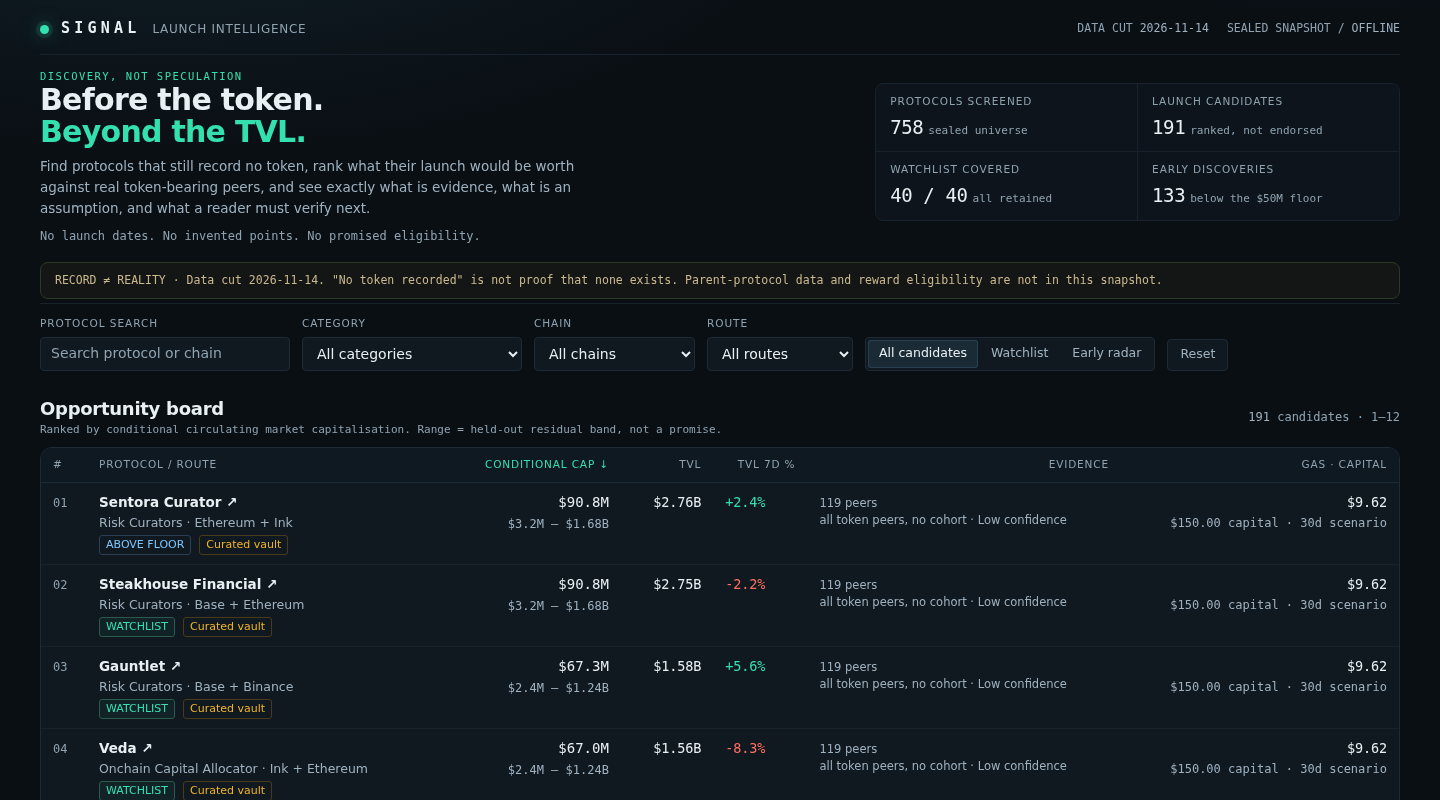
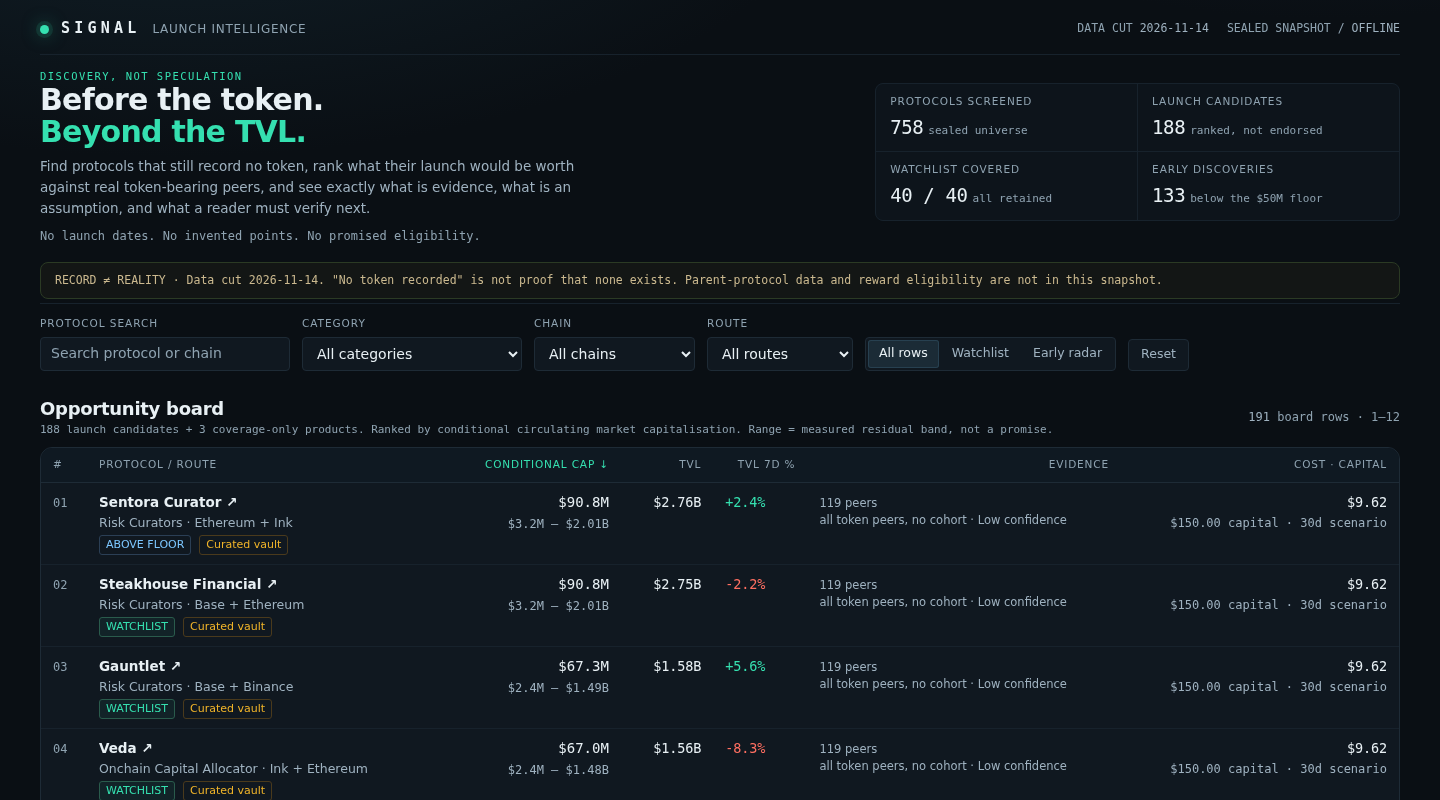
Measure the band from production residuals and keep coverage products out of launch counts

diff --git a/dashboard/app.js b/dashboard/app.js
@@ -58,9 +58,9 @@
         '<p class="lede-note">No launch dates. No invented points. No promised eligibility.</p>' }),
       el('dl', { class: 'stats', html:
         '<div class="stat"><dt>Protocols screened</dt><dd>' + D.universe + '<small>sealed universe</small></dd></div>' +
-        '<div class="stat"><dt>Launch candidates</dt><dd>' + D.rows.length + '<small>ranked, not endorsed</small></dd></div>' +
+        '<div class="stat"><dt>Launch candidates</dt><dd>' + D.launch_size + '<small>ranked, not endorsed</small></dd></div>' +
         '<div class="stat"><dt>Watchlist covered</dt><dd>' + D.watchlist_size + ' / ' + D.watchlist_size + '<small>all retained</small></dd></div>' +
-        '<div class="stat"><dt>Early discoveries</dt><dd>' + D.rows.filter(function (r) { return !r.watchlist && r.tvl_usd < D.floor_usd; }).length + '<small>below the $' + Math.round(D.floor_usd / 1e6) + 'M floor</small></dd></div>' }),
+        '<div class="stat"><dt>Early discoveries</dt><dd>' + D.early_size + '<small>below the $' + Math.round(D.floor_usd / 1e6) + 'M floor</small></dd></div>' }),
     ]);
   }
 
@@ -82,7 +82,7 @@
     });
     categories.sort(); chains.sort();
     var seg = el('div', { class: 'seg', role: 'group', 'aria-label': 'Candidate scope' });
-    [['all', 'All candidates'], ['watchlist', 'Watchlist'], ['early', 'Early radar']].forEach(function (v) {
+    [['all', 'All rows'], ['watchlist', 'Watchlist'], ['early', 'Early radar']].forEach(function (v) {
       seg.append(el('button', { type: 'button', text: v[1], 'data-view': v[0], 'aria-pressed': String(state.view === v[0]), onclick: function () { state.view = v[0]; state.page = 0; syncHash(); renderResults(); } }));
     });
     return el('section', { class: 'controls' }, [
@@ -103,7 +103,7 @@
       if (state.chain !== 'all' && r.chains.indexOf(state.chain) < 0) return false;
       if (state.route !== 'all' && r.route !== state.route) return false;
       if (state.view === 'watchlist' && !r.watchlist) return false;
-      if (state.view === 'early' && r.watchlist) return false;
+      if (state.view === 'early' && (r.watchlist || r.tvl_usd >= D.floor_usd)) return false;
       return true;
     }).sort(function (a, b) {
       var x = a[state.sort] === null || a[state.sort] === undefined ? -Infinity : a[state.sort];
@@ -143,11 +143,11 @@
     });
     results.replaceChildren();
     results.append(el('div', { class: 'resulthead' }, [
-      el('div', { html: '<h2>' + (state.view === 'early' ? 'Early radar' : state.view === 'watchlist' ? 'Watchlist' : 'Opportunity board') + '</h2><p class="hint">Ranked by conditional circulating market capitalisation. Range = held-out residual band, not a promise.</p>' }),
-      el('span', { class: 'count', 'aria-live': 'polite', html: '<b>' + rows.length + '</b> candidates · ' + (rows.length ? state.page * PAGE + 1 : 0) + '–' + Math.min((state.page + 1) * PAGE, rows.length) }),
+      el('div', { html: '<h2>' + (state.view === 'early' ? 'Early radar' : state.view === 'watchlist' ? 'Watchlist' : 'Opportunity board') + '</h2><p class="hint">' + D.launch_size + ' launch candidates + ' + (D.board_size - D.launch_size) + ' coverage-only products. Ranked by conditional circulating market capitalisation. Range = measured residual band, not a promise.</p>' }),
+      el('span', { class: 'count', 'aria-live': 'polite', html: '<b>' + rows.length + '</b> board rows · ' + (rows.length ? state.page * PAGE + 1 : 0) + '–' + Math.min((state.page + 1) * PAGE, rows.length) }),
     ]));
 
-    var cols = [['rank', '#'], ['name', 'Protocol / route'], ['implied_value_usd', 'Conditional cap'], ['tvl_usd', 'TVL'], ['change_7d', 'TVL 7d %'], ['peer_count', 'Evidence'], ['cost', 'Gas · capital']];
+    var cols = [['rank', '#'], ['name', 'Protocol / route'], ['implied_value_usd', 'Conditional cap'], ['tvl_usd', 'TVL'], ['change_7d', 'TVL 7d %'], ['peer_count', 'Evidence'], ['cost', 'Cost · capital']];
     var head = el('tr');
     cols.forEach(function (c) {
       var th = el('th', { scope: 'col', class: ['implied_value_usd', 'tvl_usd', 'change_7d', 'peer_count', 'cost'].indexOf(c[0]) >= 0 ? 'r' : '' });
@@ -211,12 +211,12 @@
     ]));
     var left = el('div', { class: 'detail-left' });
     left.append(el('section', { class: 'card', html:
-      '<div class="eyebrow">RANK ' + r.rank + ' / ' + (r.watchlist ? 'WATCHLIST' : 'EARLY DISCOVERY') + '</div>' +
+      '<div class="eyebrow">RANK ' + r.rank + ' / ' + (r.watchlist ? 'WATCHLIST' : r.tvl_usd < D.floor_usd ? 'EARLY DISCOVERY' : 'ABOVE FLOOR') + (r.product_of_another ? ' · COVERAGE ONLY, NOT A LAUNCH' : '') + '</div>' +
       '<h1 id="detail-title" tabindex="-1">' + esc(r.name) + '</h1>' +
       '<p class="muted">' + esc(r.category || 'Unclassified') + ' · ' + esc(r.chains.join(' · ') || 'chain unrecorded') + '</p>' +
-      '<div class="detail-value"><span>' + money(r.implied_value_usd) + '</span><small>conditional launch value, not a market cap on record</small></div>' +
-      '<div class="range-label"><span>' + money(r.low_usd) + '</span><span>held-out residual band, log scale</span><span>' + money(r.high_usd) + '</span></div>' +
-      '<div class="static-range" role="img" aria-label="Conditional value inside its held-out residual band"><i></i><b style="left:' + Math.max(0, Math.min(100, (Math.log(r.implied_value_usd) - Math.log(r.low_usd)) / Math.max(1e-9, Math.log(r.high_usd) - Math.log(r.low_usd)) * 100)).toFixed(1) + '%"></b></div>' +
+      '<div class="detail-value"><span>' + money(r.implied_value_usd) + '</span><small>' + (r.product_of_another ? 'coverage-only value: a product of another asset, never counted as a launch' : 'conditional launch value, not a market cap on record') + '</small></div>' +
+      '<div class="range-label"><span>' + money(r.low_usd) + '</span><span>measured residual band, log scale</span><span>' + money(r.high_usd) + '</span></div>' +
+      '<div class="static-range" role="img" aria-label="Conditional value inside its measured residual band"><i></i><b style="left:' + Math.max(0, Math.min(100, (Math.log(r.implied_value_usd) - Math.log(r.low_usd)) / Math.max(1e-9, Math.log(r.high_usd) - Math.log(r.low_usd)) * 100)).toFixed(1) + '%"></b></div>' +
       '<div class="kv">' +
         '<div><dt>TVL at data cut</dt><dd>' + money(r.tvl_usd) + '</dd></div>' +
         '<div><dt>Peer-adjusted multiple</dt><dd>' + r.multiple.toFixed(3) + '×</dd></div>' +

diff --git a/lib/model.ts b/lib/model.ts
@@ -10,12 +10,12 @@
 // CEX excluded. Two further snapshot features, the clamped seven-day change and log10(tracking
 // age), are fitted and measured on the same five disjoint folds; each moves held-out error by less
 // than 0.02 log units, so neither is retained and neither can move a score. The whole pipeline is
-// refitted per fold, so the reported error and the reported residual band are out of sample; the
-// band's coverage is measured on the same function that draws each row (78% here), never asserted as 80%.
-// A thin category's band is widened
-// toward the standard error of its own median, so 3 peers never look as certain as 40. A category
-// under three peers contributes no effect at all: the row is priced by TVL alone and says so. This model cannot know future circulating supply, FDV, airdrop
-// eligibility or a payout.
+// refitted per fold, so the reported error and the reported residual band are out of sample. The band
+// is measured from production residuals, the same function that draws each row, and covers 82% of
+// held-out peers here — never asserted as 80%. A thin category's band is widened toward the standard
+// error of its own median, so 3 peers never look as certain as 40; under three peers a category
+// contributes no effect at all, and the row is priced by TVL alone and says so. This model cannot
+// know future circulating supply, FDV, airdrop eligibility or a payout.
 
 /** The snapshot's protocol entry: exactly the ten fields the sealed input carries. */
 export interface SnapshotProtocol {
@@ -315,6 +315,7 @@ export interface RadarData {
   watchlist_size: number;
   board_size: number;
   early_size: number;
+  launch_size: number;
   excluded: { token: number; product: number; release: number; other: number };
   calibration: Calibration;
   method: { formula: string; notes: string[] };
@@ -462,7 +463,8 @@ function train(
     intercept, features, weights, means, categoryEffects, categoryCount,
     lowResidual: 0, highResidual: 0, sigma: 0, medianLogRatio: median(ys), asOf,
   };
-  const residuals = peers.map((p, i) => ys[i]! - predictLogRatio(p, f));
+  // The band is measured on the same estimator production prices rows with, thin-category gate included.
+  const residuals = peers.map((p, i) => ys[i]! - estimateLog(p, f, constants));
   f.lowResidual = Math.min(-0.05, percentile(residuals, 0.1));
   f.highResidual = Math.max(0.05, percentile(residuals, 0.9));
   f.sigma = Math.max(0.05, (f.highResidual - f.lowResidual) / 2) / HALF_TO_SIGMA;
@@ -874,7 +876,8 @@ export function buildRadar(snapshot: Snapshot, constants: ModelConstants = MODEL
     universe: snapshot.protocols.length,
     watchlist_size: snapshot.watchlist.length,
     board_size: board.length,
-    early_size: rows.filter((r) => !r.watchlist).length,
+    early_size: rows.filter((r) => !r.watchlist && r.tvl_usd < snapshot.floor_usd).length,
+    launch_size: rows.filter((r) => !r.product_of_another).length,
     excluded: { token, product, release, other },
     calibration: fit.calibration,
     method: {

diff --git a/tests/method.test.ts b/tests/method.test.ts
@@ -69,6 +69,24 @@ test('held-out error and coverage use the exact production estimator, including 
   assert.equal(fit.calibration.interval_coverage, covered / evaluated);
 });
 
+test('the fitted band is the percentiles of production residuals, thin categories included', () => {
+  const sparse = { ...snapshot, protocols: peers.map((p, i) => ({ ...p, category: `Thin ${Math.floor(i / 2)}` })) };
+  const fit = fitPeers(sparse);
+  const residuals = fit.peers.map((p) => Math.log((p.mcap_usd as number) / p.tvl_usd) - estimate(p, fit).logMultiple);
+  // Independent linear interpolation, not the model's own percentile helper.
+  const sorted = [...residuals].sort((a, b) => a - b);
+  const quantile = (q: number) => {
+    const at = (sorted.length - 1) * q;
+    const lo = Math.floor(at), hi = Math.ceil(at);
+    return sorted[lo]! + (sorted[hi]! - sorted[lo]!) * (at - lo);
+  };
+  const low = Math.min(-0.05, quantile(0.1));
+  const high = Math.max(0.05, quantile(0.9));
+  assert(Math.abs(fit.lowResidual - low) < 1e-12, 'low band must be the p10 of production residuals');
+  assert(Math.abs(fit.highResidual - high) < 1e-12, 'high band must be the p90 of production residuals');
+  assert(Math.abs(fit.sigma - Math.max(0.05, (high - low) / 2) / 1.2816) < 1e-12, 'sigma must come from those same percentiles');
+});
+
 test('the reported baseline is one global median multiple, with no category effect', () => {
   const fit = fitPeers(snapshot);
   const c = fit.calibration;
@@ -85,6 +103,20 @@ test('the reported baseline is one global median multiple, with no category effe
     for (const p of test) { error += Math.abs(Math.log((p.mcap_usd as number) / p.tvl_usd) - m); n++; }
   }
   assert(Math.abs(c.baseline_log_mae - error / n) < 1e-9, `baseline ${c.baseline_log_mae} is not the plain global median ${error / n}`);
+});
+
+test('early count excludes the floor itself, above-floor rows, and watched rows', () => {
+  const candidate = (slug: string, tvl: number) => ({ ...preToken(peers[0]!), slug, name: slug, tvl_usd: tvl });
+  const protocols = [
+    ...peers,
+    candidate('below', snapshot.floor_usd - 1),
+    candidate('at', snapshot.floor_usd),
+    candidate('above', snapshot.floor_usd + 1),
+    candidate('watched', snapshot.floor_usd - 2),
+  ];
+  const { radar } = buildRadar({ ...snapshot, protocols, watchlist: ['watched'] });
+  assert.equal(radar.early_size, 1, 'only the below-floor, non-watchlist protocol is early');
+  assert.equal(radar.board_size, 4, 'the floor changes discovery scope, not board retention');
 });
 
 test('every screened protocol is accounted for, and a watchlist product is flagged not ranked', () => {

diff --git a/README.md b/README.md
@@ -26,10 +26,10 @@ npm i --no-save playwright && node tests/browser.mjs
 `log(mcap / TVL) = intercept + weight × log10(TVL) + shrunk category effect`, fitted by ridge regression on the 119 protocols in the snapshot that already record a token. A protocol's own market cap never enters its own estimate.
 
 - **Five disjoint folds.** Every peer's cap is held out once, and the whole pipeline — weights, category effects, residual band — is refitted per fold. The reported log MAE (1.56) is out of sample against 1.79 for one global median multiple, refitted on each fold's training peers with no feature and no category term.
-- **Features are measured, not assumed.** The clamped seven-day change and log10(tracking age) are each added to the fit and scored the same way; they move held-out error by +0.001 and +0.015 log units, under the 0.02 the model treats as material, so neither is retained and neither can move a score. `tests/features.test.ts` pins that rule.
-- **The band is a measured residual band**, not a promise: the fitted ten-to-ninetieth residual band, widened by the standard error of a thin category's median, covering 78% of held-out peers. The same function draws every row's range, so the coverage number describes the range a reader actually sees.
+- **Features are measured, not assumed.** The clamped seven-day change and log10(tracking age) are each added to the fit and scored the same way; they move held-out error by +0.001 and +0.014 log units, under the 0.02 the model treats as material, so neither is retained and neither can move a score. `tests/features.test.ts` pins that rule.
+- **The band is a measured residual band**, not a promise: the fitted ten-to-ninetieth residual band, widened by the standard error of a thin category's median, covering 82% of held-out peers; the band is measured from the same estimator that prices each row, thin-category fallback included. The same function draws every row's range, so the coverage number describes the range a reader actually sees.
 - **Thin categories are priced honestly.** A category with fewer than three peers contributes no effect: the row is priced by TVL alone, its evidence line says so with the count, and its range is widened for the missing cohort. `confidence` stays Low while the band is wide.
-- **Every screened protocol is accounted for.** Board rows plus the excluded buckets — token-bearing, asset products, versioned releases, unranked — add up to the snapshot's 758 protocols. Watchlist slugs that the rankable rule drops stay on the board flagged as coverage only.
+- **Every screened protocol is accounted for.** Board rows plus the excluded buckets — token-bearing, asset products, versioned releases, unranked — add up to the snapshot's 758 protocols. Watchlist slugs that the rankable rule drops stay on the board flagged as coverage only, and the headline counts launches (188) apart from coverage rows (3).
 
 ## What it refuses to claim
 
